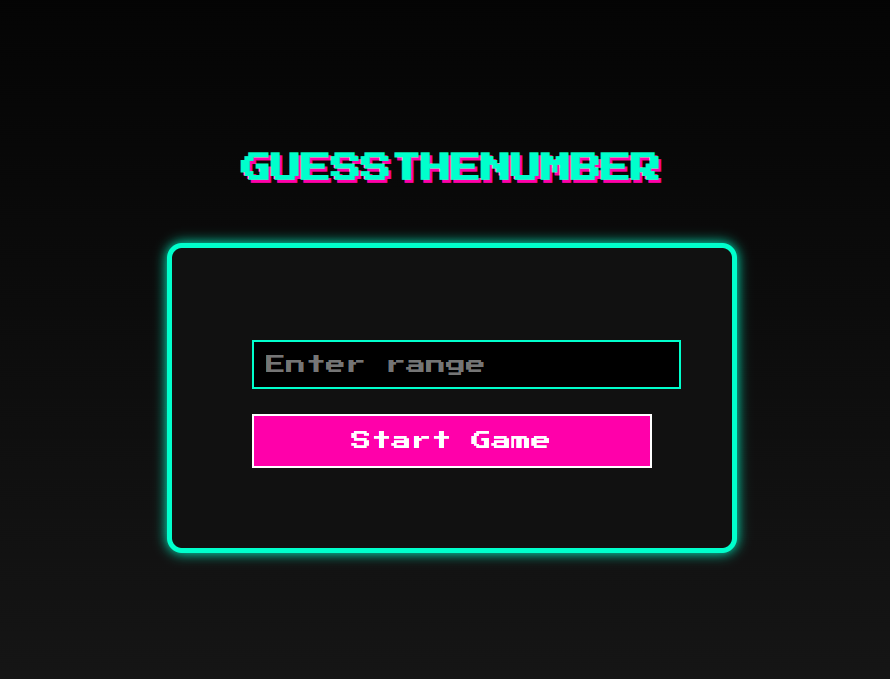
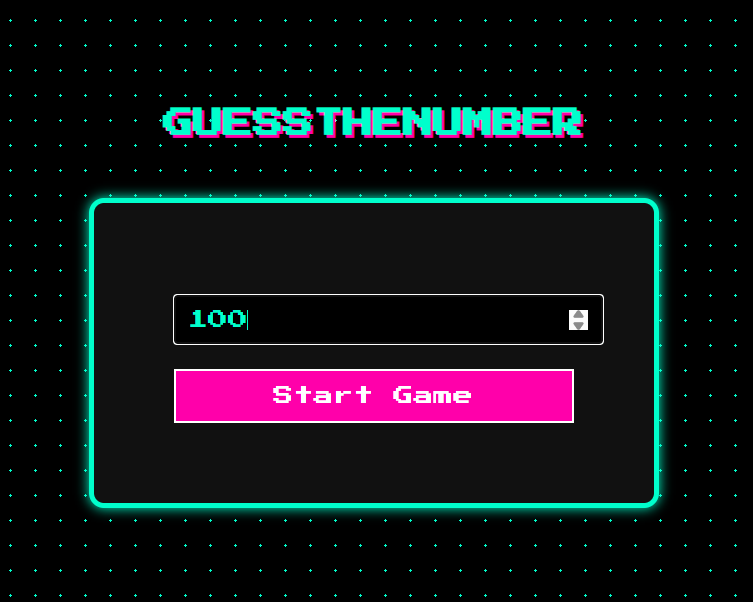
changed ui

Changed region(s): [[0.0916, 0.299, 0.8858, 0.8671], [0.2138, 0.1794, 0.7942, 0.2691]]

diff --git a/frontend/base.html b/frontend/base.html
@@ -6,7 +6,9 @@
   <style>
     body {
       font-family: 'Press Start 2P', cursive;
-      background: linear-gradient(#000000, #1a1a1a);
+      background-color: #000;
+      background-image: radial-gradient(#00ffcc 1px, transparent 1px);
+      background-size: 20px 20px;
       color: #00ffcc;
       display: flex;
       flex-direction: column;
@@ -16,6 +18,7 @@
       margin: 0;
       padding: 2rem;
     }
+
 
     h1 {
       font-size: 1.5rem;

diff --git a/README.md b/README.md
@@ -45,7 +45,6 @@ This project combines a **pixel-art-style frontend** with a **Spring Boot backen
 ## Screenshots
 
 ![Screenshot](screenshot1.png) 
-![Screenshot](screenshot2.png) 
 ---
 
 
